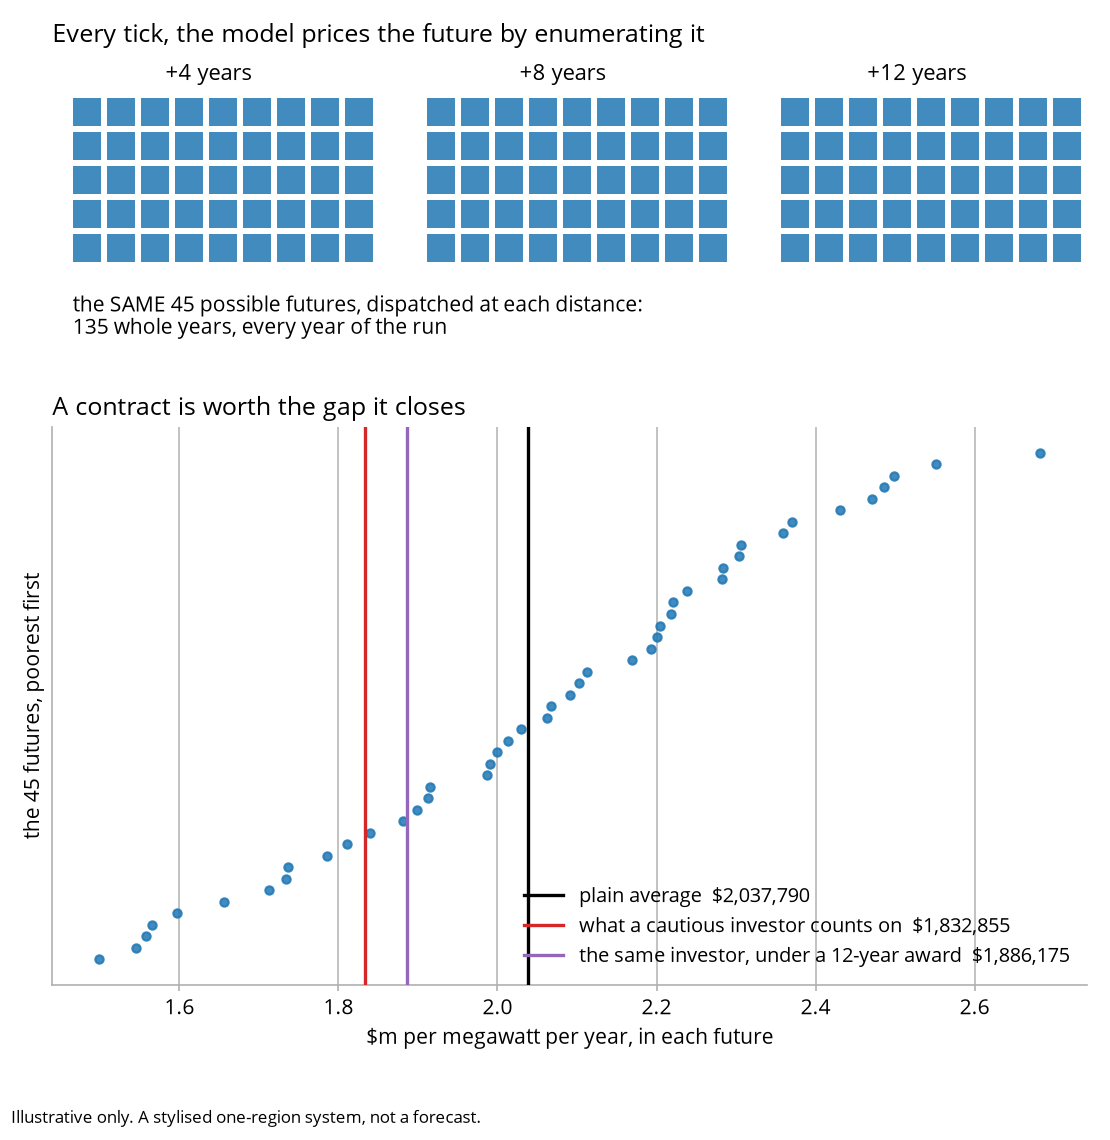
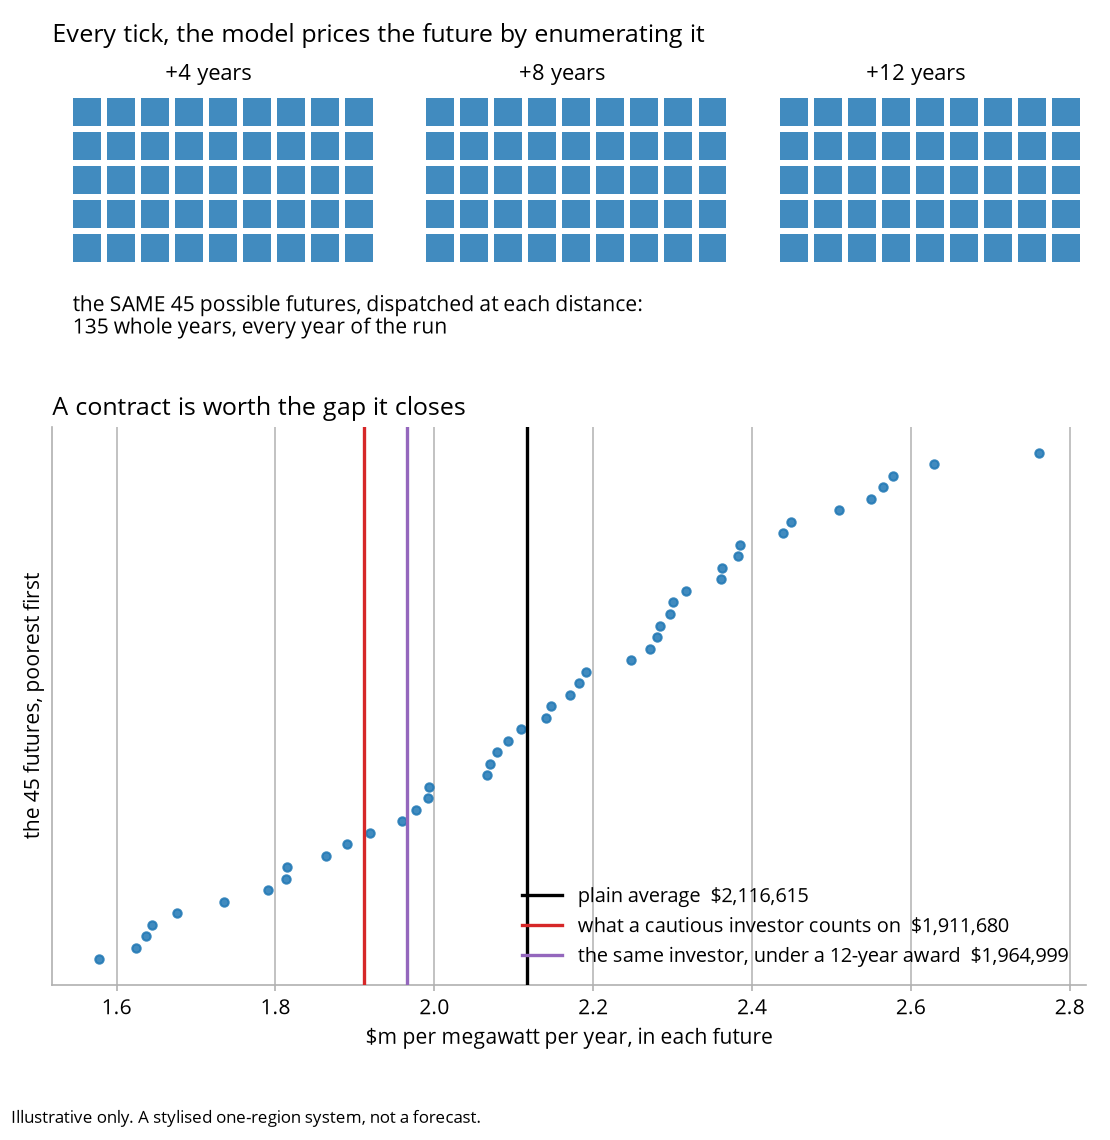
Draw the forward view the run's investors read
The forward-view figure and the notebook's hurdle cell built a tick-zero view
whose years past the last projection year paid the cost of entry alone, while
every investor in a run reads them at the cost of entry plus the market's own
loading. The hurdle, the caution it carries and the contract's return are the
same either way, since the loading is one number across every future; the
expected rent the figure draws is now the one the run prices. The helper that
adds the tail is public so the tools and the notebook read one view.

diff --git a/tools/doc_figures.py b/tools/doc_figures.py
@@ -124,13 +124,17 @@ def the_forward_view(settings, bundle, path, tech_name="ocgt"):
     """
     from esem_sandbox.core.agents import PRODUCER, default_roster
     from esem_sandbox.core.forward import EntryState, cell_plan, forward_view
+    from esem_sandbox.core.simulate import with_tail
     from esem_sandbox.core.investment import (build_size_mw, evaluate,
                                               residual_exposure)
 
     cells = cell_plan(settings)
     offsets = list(settings.forward["anchor_offsets"])
-    view = forward_view(settings, settings.fleet, bundle, year=2026,
-                        peak_mw=12_500.0, entry=EntryState())
+    # The view the run's investors read: the years past the last projection year
+    # pay the cost of entry plus the market's own loading.
+    view = with_tail(settings, forward_view(settings, settings.fleet, bundle,
+                                            year=2026, peak_mw=12_500.0,
+                                            entry=EntryState()), default_roster())
     tech = settings.tech(tech_name)
     agent = [a for a in default_roster() if a.kind == PRODUCER][0]
     rents = view.lifetime_rent(tech)
@@ -218,11 +222,13 @@ def what_hesitancy_costs(settings, bundle, path, tech_name="ocgt"):
     """
     from esem_sandbox.core.agents import PRODUCER, default_roster
     from esem_sandbox.core.forward import EntryState, forward_view
+    from esem_sandbox.core.simulate import with_tail
     from esem_sandbox.core.investment import (build_size_mw, evaluate,
                                               residual_exposure)
 
-    view = forward_view(settings, settings.fleet, bundle, year=2026,
-                        peak_mw=12_500.0, entry=EntryState())
+    view = with_tail(settings, forward_view(settings, settings.fleet, bundle,
+                                            year=2026, peak_mw=12_500.0,
+                                            entry=EntryState()), default_roster())
     tech = settings.tech(tech_name)
     size = build_size_mw(12_500.0, tech, settings)
     producers = [a for a in default_roster() if a.kind == PRODUCER]

diff --git a/src/esem_sandbox/core/simulate.py b/src/esem_sandbox/core/simulate.py
@@ -386,7 +386,7 @@ def _cap_payoff_per_mw_year(price: np.ndarray, strike: float) -> float:
     return float(np.clip(price - strike, 0.0, None).sum())
 
 
-def _with_tail(settings: Settings, view: ForwardView,
+def with_tail(settings: Settings, view: ForwardView,
                roster: tuple[Agent, ...]) -> ForwardView:
     """The view with the market's own loading in the years past the last
     projection year, so the build test, the exit test and the entry step read one
@@ -514,7 +514,7 @@ def run(settings: Settings, *, ticks: int = 20, start_year: int = 2026,
         # That is not the mechanism the rule exists to isolate, and the rule is one
         # end of the bracket this model reports on how much a market builds.
         belief_behind_view = state.entry
-        view = _with_tail(settings, forward_view(
+        view = with_tail(settings, forward_view(
             live, state.fleet, bundle, year=year, peak_mw=level,
             entry=belief_behind_view, cells=plan), state.roster)
         state.entry = update_projected_entry(
@@ -611,7 +611,7 @@ def run(settings: Settings, *, ticks: int = 20, start_year: int = 2026,
         # difference between the two legs that the mechanism did not create.
         # Rebuilt only in years something was awarded, which is what it costs.
         if awarded_this_year:
-            view = _with_tail(settings, forward_view(
+            view = with_tail(settings, forward_view(
                 live, state.fleet, bundle, year=year, peak_mw=level,
                 entry=belief_behind_view, cells=plan), state.roster)
 
@@ -634,7 +634,7 @@ def run(settings: Settings, *, ticks: int = 20, start_year: int = 2026,
             now is in service at every anchor the decision turns on. It is the
             expensive call in a tick, which is the honest cost of the repair.
             """
-            return _with_tail(settings, forward_view(
+            return with_tail(settings, forward_view(
                 live, state.fleet + tuple(new_units), bundle, year=year,
                 peak_mw=level, entry=belief_behind_view, cells=plan), state.roster)
 

diff --git a/tests/test_forward.py b/tests/test_forward.py
@@ -405,9 +405,9 @@ def test_the_tail_pays_what_the_projection_stops_assuming_entry_at(settings, tic
     from dataclasses import replace
     from esem_sandbox.core.agents import default_roster
     from esem_sandbox.core.clearing import cara_certainty_equivalent, cara_coefficient
-    from esem_sandbox.core.simulate import _merchant_entry_loading, _with_tail
+    from esem_sandbox.core.simulate import _merchant_entry_loading, with_tail
     plain = tick_zero_view
-    loaded = _with_tail(settings, plain, default_roster())
+    loaded = with_tail(settings, plain, default_roster())
     a = cara_coefficient(0.6, 1.0, settings)
     for name in ("ocgt", "solar", "battery_8h"):
         tech = settings.tech(name)
